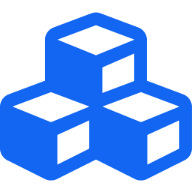
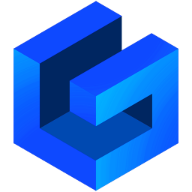
UI changes.

diff --git a/portal/templates/config.html b/portal/templates/config.html
@@ -33,15 +33,15 @@
       <div class="tab-content ms-md-3" id="v-pills-tabContent" style="margin-top: 0.2rem;">
 
         <div class="tab-pane show active" id="v-pills-status" role="tabpanel" aria-labelledby="v-pills-status-tab">
-          <h4>System Status</h4>
+          <h4><i class="fas fa-power-off" style="color: #1266f1;"></i>&nbsp;&nbsp;System Status</h4>
         </div>
 
         <div class="tab-pane" id="v-pills-home" role="tabpanel" aria-labelledby="v-pills-home-tab">
-          <h4>General Settings</h4>
+          <h4><i class="fas fa-cog" style="color: #1266f1;"></i>&nbsp;&nbsp;General Settings</h4>
         </div>
 
         <div class="tab-pane" id="v-pills-accounts" role="tabpanel" aria-labelledby="v-pills-accounts-tab">
-          <h4>Accounts</h4>
+          <h4><i class="fas fa-user-friends" style="color: #1266f1;"></i>&nbsp;&nbsp;Accounts</h4>
         </div>
 
         <!-- Tag management -->
@@ -50,7 +50,7 @@
           const tags_data_parsed = JSON.parse(document.getElementById('tags_data').textContent);    
         </script>
         <div x-data="{count: 0, tags: tags_data_parsed }" class="tab-pane" id="v-pills-tags-management" role="tabpanel" aria-labelledby="v-pills-tags-management-tab">
-          <h4>Tags Management</h4>
+          <h4><i class="fas fa-tags" style="color: #1266f1;"></i>&nbsp;&nbsp;Tags Management</h4>
           <div class="tag-list mt-4">
             <ul class="list-group list-group-dark">
               <template x-for="tag in tags">
@@ -75,12 +75,12 @@
         </div>
 
         <div class="tab-pane" id="v-pills-app-mra" role="tabpanel" aria-labelledby="v-pills-app-mra-tab">
-          <h4>Application &minus; GRASP MRA</h4>
+          <h4><i class="fas fa-box-open" style="color: #1266f1;"></i>&nbsp;&nbsp;Application &minus; GRASP MRA</h4>
           <p class="mt-4">TODO</p>
         </div>
 
         <div class="tab-pane" id="v-pills-app-onco" role="tabpanel" aria-labelledby="v-pills-app-onco-tab">
-          <h4>Application &minus; GRASP Onco</h4>
+          <h4><i class="fas fa-box-open" style="color: #1266f1;"></i>&nbsp;&nbsp;Application &minus; GRASP Onco</h4>
           <p class="mt-4">TODO</p>
         </div>
 

diff --git a/portal/templates/login.html b/portal/templates/login.html
@@ -6,21 +6,21 @@
   <div class="container py-5 h-100">
     <div class="row d-flex justify-content-center align-items-center h-100">
       <div class="col col-xl-10">
-        <div class="card" style="border-radius: 1rem;">
+        <div class="card" style="border-radius: 1rem; border: 1px solid #888;">
           <div class="row g-0">
             <div class="col-md-6 col-lg-5 d-none d-md-block">
               <img src="/static/login_background.avif" alt="login form" class="img-fluid"
-                style="border-radius: 1rem 0 0 1rem;" />
+                style="border-radius: 1rem 0 0 1rem; border-right: 1px solid #888;" />
             </div>
             <div class="col-md-6 col-lg-7 d-flex align-items-center">
               <div class="card-body p-4 p-lg-5 text-black">
 
-                <div class="d-flex align-items-center mb-3 pb-1">
-                  <i class="fas fa-cubes fa-2x me-3 text-primary"></i>
+                <div class="d-flex align-items-center mb-3 pb-2">
+                  <img src="/static/gravis_logo.png" width="56" style="margin-right: 0.9rem; margin-bottom: 2px;">                    
                   <span class="h1 fw-bold mb-0 text-light">GRAVIS</span>
                 </div>
 
-                <h5 class="fw-normal mb-3 pb-3  text-muted" style="letter-spacing: 1px;">Sign into your account</h5>
+                <h5 class="fw-normal mb-4 pb-4  text-muted" style="letter-spacing: 1px;">Sign into your account</h5>
 
                 {% if messages %}
                 {% for message in messages %}
@@ -61,7 +61,7 @@
                 </div>
 
                 <p class="mb-5 pb-lg-2"></p>
-                <p class="small text-muted">Version {{build_version}} &nbsp;&minus;&nbsp; © {% now 'Y' %} NYU Center for
+                <p class="small text-muted" style="text-align: center; position: absolute; bottom: 0px;">Version {{build_version}} &nbsp;&minus;&nbsp; © {% now 'Y' %} NYU Center for
                   Biomedical Imaging</p>
 
               </div>

diff --git a/portal/templates/portal.html b/portal/templates/portal.html
@@ -2,12 +2,12 @@
 
 {% block body %}
 <header>
-    <nav class="navbar navbar-expand-lg sticky-top navbar-dark bg-dark shadow-2-strong">
+    <nav class="navbar navbar-expand-lg sticky-top navbar-dark bg-dark shadow-2-strong" style="padding-top: 0.25rem; padding-bottom: 0.25rem; ">
         <div class="container-fluid">
             <a href="/">
-            <div class="navbar-brand" style="margin-left: 10px;" >
+            <div class="navbar-brand" style="margin-left: 10px; margin-right: 30px; padding-top: 0.45rem; padding-bottom: 0.45rem;">
                 <div class="d-flex align-items-center">
-                    <i class="fas fa-cubes me-2 text-primary"></i>
+                    <img src="/static/gravis_logo.png" width="32" style="margin-right: 0.7rem; margin-bottom: 2px;">
                     <span class="h3 fw-bold mb-0 text-light">GRAVIS</span>
                 </div>
             </div>
